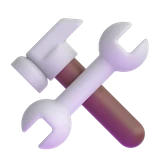
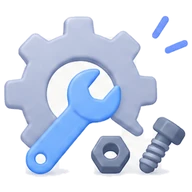
대분류 아이콘을 새 3D 아이콘으로 교체, 글자 한 줄로
- 이미지/categories/*.webp: 사용자 제공 아이콘(중고장터·산업기계·공구·부품·자동화·전기·물류·창고)으로 교체
- Fluent 이모지를 더 쓰지 않으므로 라이선스 파일 삭제
- 산다 목차바: 아이콘 48→54px, 글자 13px 한 줄

Claude-Session: https://claude.ai/code/session_019hJ4uPzV9AoHBFLRTQiXRi

diff --git a/buy.html b/buy.html
@@ -38,7 +38,7 @@
   .sheet-head img{-webkit-user-drag:none;user-drag:none;pointer-events:none;}
   .sheet-head .handle{width:44px;height:5px;border-radius:3px;background:#DDD;margin:0 auto 14px;}
   .cats{display:grid;grid-template-columns:repeat(5,1fr);gap:4px;}
-  .cat{display:flex;flex-direction:column;align-items:center;gap:6px;padding:8px 2px 10px;border-radius:16px;font-size:14px;font-weight:600;color:var(--text);word-break:keep-all;line-height:1.2;text-align:center;}
+  .cat{display:flex;flex-direction:column;align-items:center;gap:6px;padding:8px 0 10px;border-radius:16px;font-size:13px;font-weight:600;color:var(--text);line-height:1.2;text-align:center;white-space:nowrap;letter-spacing:-.3px;min-width:0;}
   .cat .i3d{transition:transform .15s ease;}
   .cat:active .i3d{transform:scale(.92);}
   .cat.on{background:var(--primary-light);box-shadow:inset 0 0 0 2px var(--primary);}
@@ -107,7 +107,7 @@
     $('cats').innerHTML = PS.CATEGORIES.map(function (c) {
       var on = state.cat === c;
       return '<button type="button" role="tab" aria-selected="' + on + '" class="cat' + (on ? ' on' : '') + '" data-c="' + PS.esc(c) + '">' +
-        PS.categoryIcon(c, 48) + '<span>' + PS.esc(c) + '</span></button>';
+        PS.categoryIcon(c, 54) + '<span>' + PS.esc(c) + '</span></button>';
     }).join('');
   }
   renderCats();
